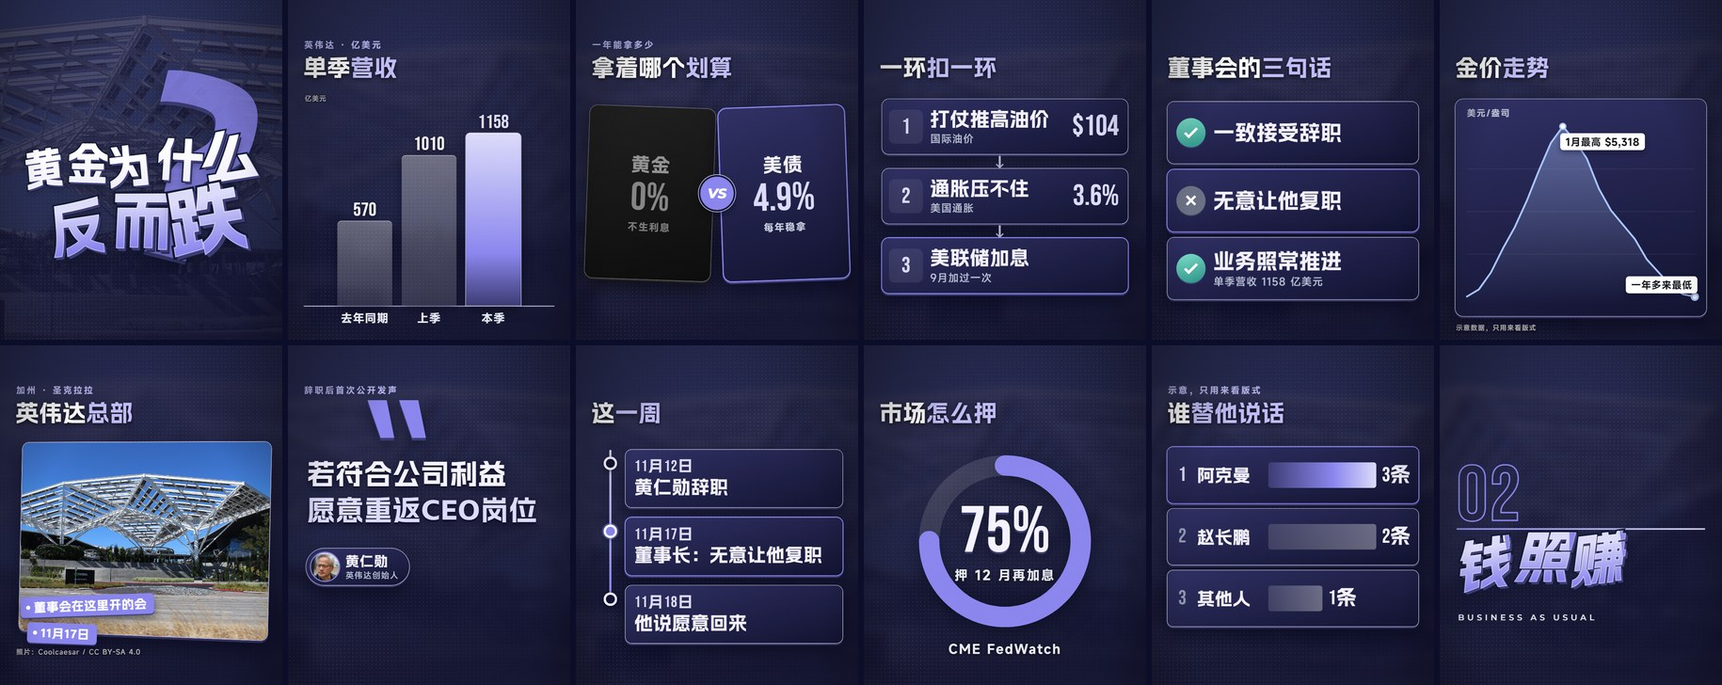
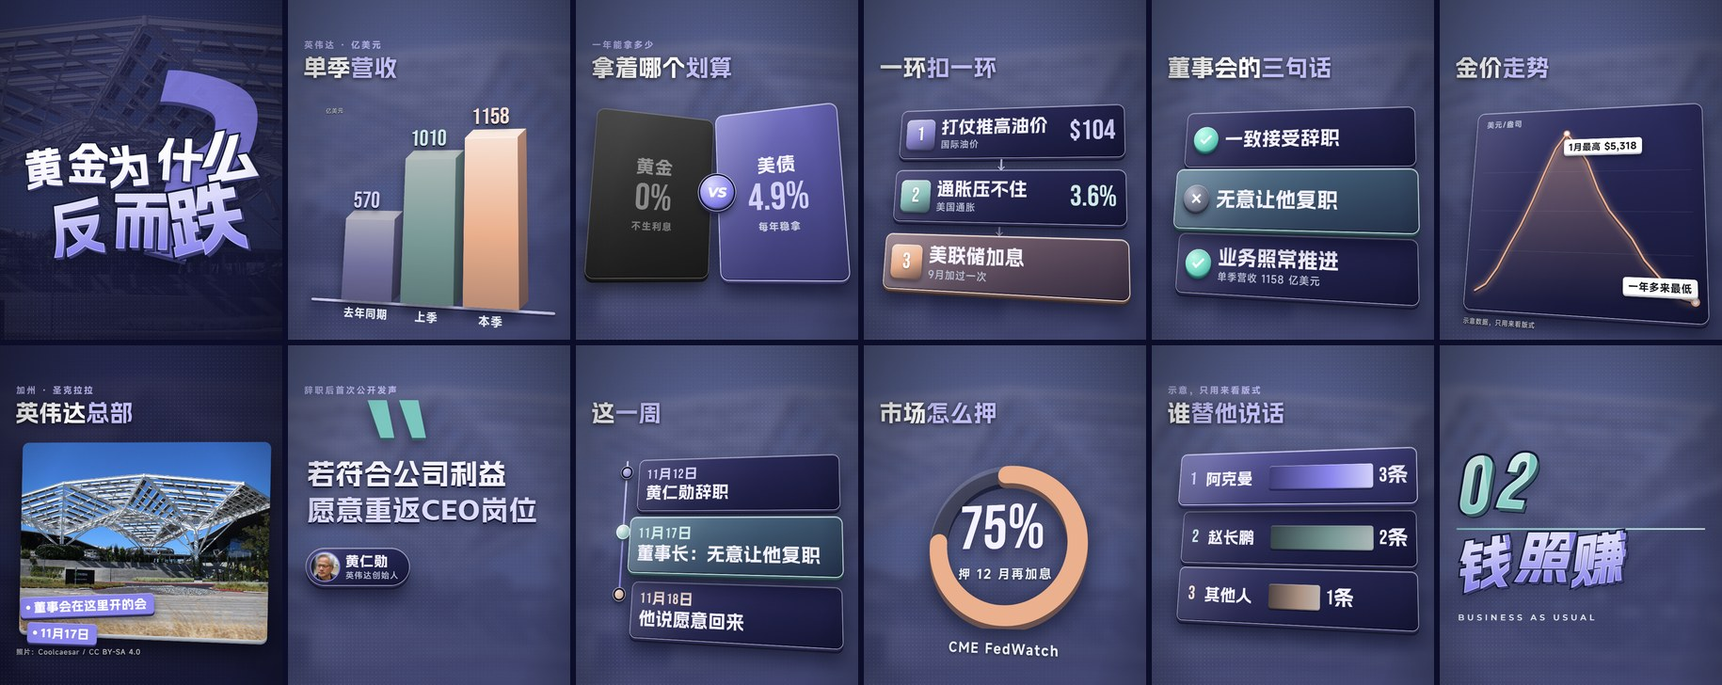
v2.7: vpro components get depth and texture; one main colour plus three muted companions
图形组件放在有透视的斜台面上，卡有两层厚度和高光，柱子是长方体，圆环有厚度；
配色从一个强调色改成一个主色加三个伴色（青绿、杏橙、天蓝，饱和度压低）。

diff --git a/kit/vpro.js b/kit/vpro.js
@@ -5,7 +5,9 @@
 //   5 每样东西只做一个有意思的动作，落定后一个像素不动（不弹、不晃、不飘、镜头不顿）
 // 二十个组件，有她没她都能用：前 8 个是讲故事的（有口播时她是底），后 12 个是算账、比较、引用、分段的图形镜头（有口播时她在角上的圆头像里）。
 // 有口播素材就垫她的实拍，没有（或写 host:false）就垫 bg 那张图。一条片里每个组件最多用一两次，进场别重复。
-// 用法：film.js 里 await KIT_VERT.use(K,{…}) 之后写一句 KIT_VPRO.theme({accent:'#8a86ee'})，颜色取自口播画面；然后镜头表里写 scene:'vp-words' 这些。
+// 用法：film.js 里 await KIT_VERT.use(K,{…}) 之后写一句 KIT_VPRO.theme({accent:'#8a86ee'})，主色取自口播画面；然后镜头表里写 scene:'vp-words' 这些。
+// 颜色：一个主色（卡的底、细边、大字）+ 三个伴色（青绿、杏橙、天蓝，按主色自动配、饱和度压低，theme({palette:[…]}) 可以自己定）。
+//       图形镜头里每样东西轮着用这四个颜色（每项写 c:0–3 可以指定），所以一屏不是一个颜色，但都在一个家族里。
 (()=>{
 const {S,W,ZH,A,plain,fitH,fitU,fitN,hostBox,avatar,roomSrc,HOST}=KIT_VERT;
 const {hashf}=KIT;
@@ -21,11 +23,18 @@ const wipe=k=>`clip-path:inset(-20% ${f1(100*(1-k))}% -20% -5%)`;
 const hex=c=>{const m=/^#([0-9a-f]{6})$/i.exec(c);if(!m)throw Error(`KIT_VPRO.theme：颜色要写成 '#8a86ee' 这样，收到 ${c}`);return [0,2,4].map(i=>parseInt(m[1].slice(i,i+2),16));};
 const mix=(a,b,k)=>'#'+hex(a).map((v,i)=>Math.round(lerp(v,hex(b)[i],k)).toString(16).padStart(2,'0')).join('');
 const TH={};let PUFF={};
+const hsv2hex=(h,sv,v)=>{h=((h%360)+360)%360;const f=n=>{const k=(n+h/60)%6;return Math.round(255*(v-v*sv*Math.max(0,Math.min(k,4-k,1))));};return '#'+[f(5),f(3),f(1)].map(x=>x.toString(16).padStart(2,'0')).join('');};
+const hueOf=c=>{const [r,g,b]=hex(c).map(x=>x/255),mx=Math.max(r,g,b),mn=Math.min(r,g,b),d=mx-mn;if(!d)return 0;return 60*(mx===r?((g-b)/d+6)%6:mx===g?(b-r)/d+2:(r-g)/d+4);};
+const tri=c=>({b:c,hi:mix(c,'#ffffff',.62),lo:mix(c,'#05061c',.56)});
+// 第 i 样东西用第几个颜色：0 主色，1–3 伴色，轮着用
+const KV=i=>{const k=TH.pal[((i%TH.pal.length)+TH.pal.length)%TH.pal.length];return `--k:${k.b};--kh:${k.hi};--kl:${k.lo};`;};
 function theme(o={}){
  const a=o.accent??'#8a86ee';
  Object.assign(TH,{accent:a,hi:o.hi??mix(a,'#ffffff',.7),lo:o.lo??mix(a,'#05061c',.58),card1:o.card1??mix(a,'#0b0d2c',.7),card2:o.card2??mix(a,'#05061c',.9),ink:o.ink??'#f4f2ff',
   num1:o.num1??mix(a,'#ffffff',.18),num2:o.num2??mix(a,'#05061c',.5),num3:o.num3??mix(a,'#05061c',.72),up1:o.up1??'#7fe0cc',up2:o.up2??'#2a8f84',cool:o.cool??'#a9c4ff',bg:o.bg??TH.bg??null});
+ {const h=hueOf(a);TH.pal=(o.palette??[a,hsv2hex(h-68,.38,.78),hsv2hex(h+140,.40,.92),hsv2hex(h-28,.30,.90)]).map(tri);}   // 伴色：青绿、杏橙、天蓝，参考片量到的那几个调子；饱和度压在四成以下，亮度和主色齐，放在一起不抢
  PUFF={white:['#ffffff',mix('#ffffff',a,.12),mix(a,'#05061c',.55)],accent:[TH.hi,a,TH.lo],cool:[mix(TH.cool,'#ffffff',.8),TH.cool,mix(TH.cool,'#05061c',.55)],gray:['#dfe2e7','#8a8f9a','#474b55']};
+ TH.pal.forEach((k,i)=>{PUFF['c'+i]=[k.hi,k.b,k.lo];});
  const [r,g,b]=hex(TH.hi);let st=document.getElementById('vp-theme');if(!st){st=document.createElement('style');st.id='vp-theme';document.head.appendChild(st);}
  st.textContent=`:root{--vp-accent:${a};--vp-hi:${TH.hi};--vp-lo:${TH.lo};--vp-card1:${TH.card1};--vp-card2:${TH.card2};--vp-ink:${TH.ink};--vp-line:rgba(${r},${g},${b},.78);--vp-num1:${TH.num1};--vp-num2:${TH.num2};--vp-num3:${TH.num3};--vp-up1:${TH.up1};--vp-up2:${TH.up2}}.v-root{--v-on:${mix(a,'#ffffff',.45)}}`;
  return TH;}
@@ -218,74 +227,77 @@ S('vp-number',{real:()=>true,minDur:2,
 // ====================================================================================================
 const hasAva=p=>HOST.on&&p.avatar!==false;
 const hd=(p,th)=>(p.brow?`<div class="v-brow" style="left:62px;top:150px;${wipe(oc(th/.3))}">${p.brow}</div>`:'')+(p.title?`<div class="v-h v-shadow" style="left:60px;top:208px;font-size:${fitH(p.title,88,hasAva(p)?720:960)}px;${wipe(oc((th-.1)/.35))}">${p.title}</div>`:'');
-const base=(p,c,t)=>bgHTML(p,c,t,{s:1.14,blur:14,bri:.3});
+const base=(p,c,t)=>bgHTML(p,c,t,{s:1.14,blur:14,bri:.44}).replace('class="vp-tint"','class="vp-tint g"');   // 图形镜头的底：灰蓝、比讲故事的镜头亮一档（参考片数据卡的底是 #5F6A88 一类）
 const tsOf=(c,its,lead=.35,gap=.7)=>its.map((it,i)=>c.at(it.at)??c.t0+lead+i*Math.min(gap,Math.max(.25,(c.d-lead-.5)/Math.max(1,its.length))));
 // 数字从 0 数到位：'$104' '3.6%' '-6.9%' 都认，前后的符号留着
 const cnt=(v,k)=>{const m=/^([^\d]*)([\d.,]+)(.*)$/.exec(String(v));if(!m)return String(v);const n=parseFloat(m[2].replace(/,/g,'')),dec=(m[2].split('.')[1]??'').length;return m[1]+(n*k).toFixed(dec)+m[3];};
 const numOf=v=>{const m=/([\d.,]+)/.exec(String(v));return m?parseFloat(m[1].replace(/,/g,'')):0;};
 const TOP=p=>p.title?350:(p.brow?230:170);
+// 斜台面：图形镜头的内容放在一张有透视的台面上，进场时从更斜的角度摆到位，然后不动。p.flat:true 可以关掉
+const T3=(th,inner,p,o={})=>{if(p.flat)return inner;const k=tail(th,.15),rx=o.rx??10,ry=o.ry??-11;return `<div class="v-abs" style="left:0;top:0;width:${W}px;height:${ZH}px;perspective:1600px;perspective-origin:50% 40%"><div class="v-abs" style="left:0;top:0;width:${W}px;height:${ZH}px;transform-style:preserve-3d;transform-origin:50% 50%;transform:rotateX(${f1(rx+16*(1-k))}deg) rotateY(${f1(ry-24*(1-k))}deg) rotateZ(${o.rz??1.6}deg) scale(${o.s??.95})">${inner}</div></div>`;};
+const Z=n=>`translateZ(${n}px)`;
 
 // ====== 9 vp-bars：几根柱子比大小 ======
 S('vp-bars',{real:()=>false,minDur:1.5,
  says:'几根柱子从底线往上长，数字跟着数上去；最要紧的那根是强调色',use:'几个数比大小：四家公司的投入、三年的营收',avoid:'超过 5 根；数差不多大（看不出高低）',
- need:['items'],help:{items:"[{label:'微软', value:'800', hl:true, at}]，2–5 根；value 可带符号和单位",unit:'左上角的单位小字',title:'标题',brow:'小字',bg:'垫底的图'},
+ need:['items'],help:{items:"[{label:'微软', value:'800', hl:true, at}]，2–5 根；value 可带符号和单位",unit:'左上角的单位小字',flat:'true = 不要斜台面，平着放',title:'标题',brow:'小字',bg:'垫底的图'},
  beats:p=>A(p.items).length,
  draw(p,c){markAva(p);const its=A(p.items),n=its.length,ts=tsOf(c,its),top=TOP(p)+90,by=1170,mh=by-top-70,mx=Math.max(...its.map(i=>numOf(i.value)),1e-9),w=Math.min(210,(900-(n-1)*36)/n),x0=(W-(n*w+(n-1)*36))/2;
-  return t=>{const th=t-c.t0;let h=base(p,c,t)+hd(p,th)+(p.unit?`<div class="v-cap" style="left:64px;top:${TOP(p)+10}px">${p.unit}</div>`:'')+`<div class="vp-base" style="left:60px;top:${by}px;width:${f1(960*oc(th/.4))}px"></div>`;
+  return t=>{const th=t-c.t0;let h=(p.unit?`<div class="v-cap" style="left:64px;top:${TOP(p)+10}px">${p.unit}</div>`:'')+`<div class="vp-base" style="left:60px;top:${by}px;width:${f1(960*oc(th/.4))}px"></div>`;
    its.forEach((it,i)=>{const k=oc((t-ts[i])/.8);if(k<=0)return;const hh=Math.max(14,mh*numOf(it.value)/mx)*k,x=x0+i*(w+36);
-    h+=`<div class="vp-col${it.hl?' hl':''}" style="left:${f1(x)}px;top:${f1(by-hh)}px;width:${f1(w)}px;height:${f1(hh)}px"></div><div class="vp-colv${it.hl?' hl':''}" style="left:${f1(x-40)}px;top:${f1(by-hh-78)}px;width:${f1(w+80)}px">${cnt(it.value,k)}</div><div class="vp-coll" style="left:${f1(x-40)}px;top:${by+18}px;width:${f1(w+80)}px;font-size:${fitU(it.label,44,w+70)}px;opacity:${f3(c01((t-ts[i])*5))}">${it.label}</div>`;});
-   return h+ava(p,t);};}
+    h+=`<div class="vp-col${it.hl?' hl':''}" style="${KV(it.c??i)}left:${f1(x)}px;top:${f1(by-hh)}px;width:${f1(w)}px;height:${f1(hh)}px"><i></i><b></b></div><div class="vp-colv${it.hl?' hl':''}" style="${KV(it.c??i)}left:${f1(x-40)}px;top:${f1(by-hh-116)}px;width:${f1(w+80)}px;transform:${Z(50)}">${cnt(it.value,k)}</div><div class="vp-coll" style="left:${f1(x-40)}px;top:${by+18}px;width:${f1(w+80)}px;font-size:${fitU(it.label,44,w+70)}px;opacity:${f3(c01((t-ts[i])*5))}">${it.label}</div>`;});
+   return base(p,c,t)+hd(p,th)+T3(th,h,p)+ava(p,t);};}
 });
 
 // ====== 10 vp-versus：两边对着看 ======
 S('vp-versus',{real:p=>!!(p.left?.img||p.right?.img),minDur:1.5,
  says:'两张卡从两边滑进来对着放，中间一个 VS；可以在某个时刻让一边赢',use:'"黄金不生利息，美债一年 4.9%"：两样东西对比',avoid:'三样以上（改 vp-bars / vp-rank）',
- need:['left','right'],help:{left:"{name:'黄金', value:'0%', sub:'不生利息', img, at}",right:'同 left',win:"{side:'right', at}：这时赢的一边亮起、另一边变灰",title:'标题',brow:'小字',bg:'垫底的图'},
+ need:['left','right'],help:{left:"{name:'黄金', value:'0%', sub:'不生利息', img, at}",right:'同 left',win:"{side:'right', at}：这时赢的一边亮起、另一边变灰",flat:'true = 不要斜台面，平着放',title:'标题',brow:'小字',bg:'垫底的图'},
  beats:p=>2+(p.win?1:0),
  draw(p,c){markAva(p);const L=p.left,Rr=p.right,tl=c.at(L.at)??c.t0+.3,tr=c.at(Rr.at)??c.t0+1,tw=p.win?c.at(p.win.at)??tr+.8:1e9,top=TOP(p)+60,ch=p.left.img||p.right.img?780:660;
   const card=(o,sd,ta,t)=>{const k=tail(t-ta+.08,.11);if(k<=0)return '';const win=oc((t-tw)/.3),lose=p.win&&p.win.side!==(sd<0?'left':'right'),hit=p.win&&!lose;
-   return `<div class="vp-vs${hit&&win>0?' on':''}" style="left:${f1((sd<0?44:556)+sd*620*(1-k))}px;top:${top}px;height:${ch}px;transform:rotate(${sd*-2}deg);filter:grayscale(${f3(lose?win:0)}) brightness(${f3(1-(lose?.4*win:0))})">${o.img?`<div class="ph"><img src="${o.img}"></div>`:''}<b style="font-size:${fitH(o.name,72,420)}px">${o.name}</b><em style="font-size:${fitU(String(o.value),150,420)}px">${cnt(o.value,oe((t-ta)/.9))}</em><u>${o.sub??''}</u></div>`;};
-  return t=>{const th=t-c.t0,kv=oe((t-tr)/.2);return base(p,c,t)+hd(p,th)+card(L,-1,tl,t)+card(Rr,1,tr,t)+(t>tr-.02?`<div class="vp-vsb" style="top:${top+ch/2-64}px;transform:scale(${f3(1+1.4*(1-kv))});opacity:${f3(c01((t-tr)*8))}">VS</div>`:'')+ava(p,t);};}
+   return `<div class="vp-vs${hit&&win>0?' on':''}" style="${KV(o.c??(sd<0?1:0))}left:${f1((sd<0?44:556)+sd*620*(1-k))}px;top:${top}px;height:${ch}px;transform:rotateY(${sd*-17}deg) rotate(${sd*-2}deg) ${Z(hit&&win>0?70*win:0)};filter:grayscale(${f3(lose?win:0)}) brightness(${f3(1-(lose?.4*win:0))})">${o.img?`<div class="ph"><img src="${o.img}"></div>`:''}<b style="font-size:${fitH(o.name,72,420)}px">${o.name}</b><em style="font-size:${fitU(String(o.value),150,420)}px">${cnt(o.value,oe((t-ta)/.9))}</em><u>${o.sub??''}</u></div>`;};
+  return t=>{const th=t-c.t0,kv=oe((t-tr)/.2);return base(p,c,t)+hd(p,th)+T3(th,card(L,-1,tl,t)+card(Rr,1,tr,t)+(t>tr-.02?`<div class="vp-vsb" style="top:${top+ch/2-64}px;transform:${Z(90)} scale(${f3(1+1.4*(1-kv))});opacity:${f3(c01((t-tr)*8))}">VS</div>`:''),p,{ry:0,rx:8,rz:0})+ava(p,t);};}
 });
 
 // ====== 11 vp-chain：一环扣一环 ======
 S('vp-chain',{real:p=>A(p.items).some(i=>i.img),minDur:2,
  says:'三四张卡从上往下一张接一张滑进来，中间的箭头长出来；最后一张是强调色',use:'因果链："打仗 → 油价涨 → 通胀 → 加息"',avoid:'超过 4 环；每环的字超过 8 个',
- need:['items'],help:{items:"[{title:'打仗推高油价', value:'$104', sub:'国际油价', img, at}]，3–4 环",title:'标题',brow:'小字',bg:'垫底的图'},
+ need:['items'],help:{items:"[{title:'打仗推高油价', value:'$104', sub:'国际油价', img, at}]，3–4 环",flat:'true = 不要斜台面，平着放',title:'标题',brow:'小字',bg:'垫底的图'},
  beats:p=>A(p.items).length,
  draw(p,c){markAva(p);const its=A(p.items),n=its.length,ts=tsOf(c,its),top=TOP(p)+30,gap=56,ch=Math.min(210,(1230-top-(n-1)*gap)/n);
-  return t=>{const th=t-c.t0;let h=base(p,c,t)+hd(p,th);
+  return t=>{const th=t-c.t0;let h='';
    its.forEach((it,i)=>{const k=tail(t-ts[i]+.08,.1);if(k<=0)return;const y=top+i*(ch+gap),last=i===n-1;
     if(i)h+=`<div class="vp-arrow" style="left:520px;top:${f1(y-gap+6)}px;height:${f1((gap-12)*oc((t-ts[i]+.1)/.25))}px"><i></i></div>`;
-    h+=`<div class="vp-link${last?' hl':''}" style="left:${f1(70+(i%2?1:-1)*900*(1-k))}px;top:${f1(y)}px;height:${f1(ch)}px">${it.img?`<span class="ph"><img src="${it.img}"></span>`:`<span class="no">${i+1}</span>`}<div><b style="font-size:${fitH(it.title,74,it.value?480:700)}px">${it.title}</b><u>${it.sub??''}</u></div>${it.value?`<em>${cnt(it.value,oe((t-ts[i])/.8))}</em>`:''}</div>`;});
-   return h+ava(p,t);};}
+    h+=`<div class="vp-link${last?' hl':''}" style="${KV(it.c??i)}left:${f1(70+(i%2?1:-1)*900*(1-k))}px;top:${f1(y)}px;height:${f1(ch)}px;transform:${Z(last?60:i*14)}">${it.img?`<span class="ph"><img src="${it.img}"></span>`:`<span class="no">${i+1}</span>`}<div><b style="font-size:${fitH(it.title,74,it.value?480:700)}px">${it.title}</b><u>${it.sub??''}</u></div>${it.value?`<em>${cnt(it.value,oe((t-ts[i])/.8))}</em>`:''}</div>`;});
+   return base(p,c,t)+hd(p,th)+T3(th,h,p)+ava(p,t);};}
 });
 
 // ====== 12 vp-list：几条要点 ======
 S('vp-list',{real:()=>false,minDur:1.5,
  says:'几条要点一条条翻出来，前面一个圆牌（序号、对勾或叉）',use:'"三个原因""两条出路""该做的和不该做的"',avoid:'超过 4 条；每条超过 12 个字',
- need:['items'],help:{items:"[{text:'利率还在涨', sub:'小字', mark:'ok'|'no'|'1', hl:true, at}]，2–4 条",title:'标题',brow:'小字',bg:'垫底的图'},
+ need:['items'],help:{items:"[{text:'利率还在涨', sub:'小字', mark:'ok'|'no'|'1', hl:true, at}]，2–4 条",flat:'true = 不要斜台面，平着放',title:'标题',brow:'小字',bg:'垫底的图'},
  beats:p=>A(p.items).length,
  draw(p,c){markAva(p);const its=A(p.items),n=its.length,ts=tsOf(c,its),top=TOP(p)+40,rh=Math.min(236,(1220-top)/n-24);
-  return t=>{const th=t-c.t0;let h=base(p,c,t)+hd(p,th);
+  return t=>{const th=t-c.t0;let h='';
    its.forEach((it,i)=>{const k=(t-ts[i]+.04)/.3;if(k<=0)return;const m=it.mark??String(i+1);
-    h+=`<div class="vp-row${it.hl?' hl':''}" style="left:60px;top:${f1(top+i*(rh+24))}px;height:${f1(rh)}px;opacity:${f3(c01(k*4))};transform:perspective(900px) rotateX(${f1(-88*(1-oe(k)))}deg)"><span class="bd ${m==='ok'?'ok':m==='no'?'no':''}">${m==='ok'?'✓':m==='no'?'✕':m}</span><div><b style="font-size:${fitH(it.text,80,760)}px">${it.text}</b>${it.sub?`<u>${it.sub}</u>`:''}</div></div>`;});
-   return h+ava(p,t);};}
+    h+=`<div class="vp-row${it.hl?' hl':''}" style="${KV(it.c??i)}left:60px;top:${f1(top+i*(rh+24))}px;height:${f1(rh)}px;opacity:${f3(c01(k*4))};transform:${Z(it.hl?56:0)} rotateX(${f1(-88*(1-oe(k)))}deg)"><span class="bd ${m==='ok'?'ok':m==='no'?'no':''}">${m==='ok'?'✓':m==='no'?'✕':m}</span><div><b style="font-size:${fitH(it.text,80,760)}px">${it.text}</b>${it.sub?`<u>${it.sub}</u>`:''}</div></div>`;});
+   return base(p,c,t)+hd(p,th)+T3(th,h,p)+ava(p,t);};}
 });
 
 // ====== 13 vp-line：走势线 ======
 S('vp-line',{real:()=>true,minDur:2,
  says:'一条走势线从左画到右，画到哪标到哪；线下面一层淡淡的颜色',use:'"金价一路掉回一年前""股价三个月翻倍"',avoid:'两条以上的线；没有真数据（不许编走势）',
- need:['data'],help:{data:"数字数组 [3200,3260,…]，或一个 json 文件（数字数组，或 [{v:…}] 这类对象数组，取第一个数字字段）",marks:"[{i:103, text:'1月最高 $5,318', at}]：i 是第几个点，-1 是最后一个",drawTo:'画完的时刻（默认 1.6 秒画完）',unit:'单位小字',down:'true = 跌的走势，线和面用冷色',title:'标题',brow:'小字',source:'数据来源小字（要写）',bg:'垫底的图'},
+ need:['data'],help:{data:"数字数组 [3200,3260,…]，或一个 json 文件（数字数组，或 [{v:…}] 这类对象数组，取第一个数字字段）",marks:"[{i:103, text:'1月最高 $5,318', at}]：i 是第几个点，-1 是最后一个",drawTo:'画完的时刻（默认 1.6 秒画完）',unit:'单位小字',down:'true = 跌的走势，线和面用冷色',flat:'true = 不要斜台面，平着放',title:'标题',brow:'小字',source:'数据来源小字（要写）',bg:'垫底的图'},
  beats:p=>1+A(p.marks).length,
  async prep(p){let d=p.data;if(typeof d==='string')d=await (await fetch(d)).json();if(d&&!Array.isArray(d))d=Object.values(d).find(Array.isArray)??[];p._d=d.map(x=>typeof x==='number'?x:Array.isArray(x)?+x[x.length-1]:+Object.values(x).find(v=>typeof v==='number')).filter(x=>!isNaN(x));},
  check(p,c){if(!p.source)c.warn('走势线没写 source：数据从哪来的要写在屏上');},
  draw(p,c){markAva(p);const d=p._d??[],n=d.length,top=TOP(p)+30,cw=960,chh=1210-top,pad=44,mn=Math.min(...d),mx=Math.max(...d),X=i=>pad+(cw-2*pad)*i/Math.max(1,n-1),Y=v=>pad+60+(chh-2*pad-90)*(1-(v-mn)/Math.max(1e-9,mx-mn));
   const pts=d.map((v,i)=>`${f1(X(i))},${f1(Y(v))}`),t1=c.at(p.drawTo)??c.t0+1.9,mk=A(p.marks).map(m=>({...m,i:m.i<0?n+m.i:m.i})),tm=mk.map((m,j)=>c.at(m.at)??lerp(c.t0+.3,t1,m.i/Math.max(1,n-1)));
   return t=>{const th=t-c.t0,k=tail(th,.12),g=c01((t-c.t0-.3)/Math.max(.3,t1-c.t0-.3)),m=Math.max(1,Math.round(g*(n-1)));
-   let h=base(p,c,t)+hd(p,th)+`<div class="vp-chart${p.down?' down':''}" style="left:60px;top:${f1(top+(1-k)*120)}px;width:${cw}px;height:${f1(chh)}px;opacity:${f3(c01(th*8))}">${p.unit?`<u class="un">${p.unit}</u>`:''}<svg width="${cw}" height="${f1(chh)}" viewBox="0 0 ${cw} ${f1(chh)}"><defs><linearGradient id="vpg" x1="0" y1="0" x2="0" y2="1"><stop offset="0" stop-color="currentColor" stop-opacity=".42"/><stop offset="1" stop-color="currentColor" stop-opacity="0"/></linearGradient></defs>${[.25,.5,.75].map(q=>`<line x1="${pad}" x2="${cw-pad}" y1="${f1(pad+60+(chh-2*pad-90)*q)}" y2="${f1(pad+60+(chh-2*pad-90)*q)}" stroke="rgba(255,255,255,.1)" stroke-width="2"/>`).join('')}${g>0&&n>1?`<polygon points="${pts.slice(0,m+1).join(' ')} ${f1(X(m))},${f1(chh-pad)} ${pad},${f1(chh-pad)}" fill="url(#vpg)"/><polyline points="${pts.slice(0,m+1).join(' ')}" fill="none" stroke="currentColor" stroke-width="7" stroke-linejoin="round" stroke-linecap="round"/><circle cx="${f1(X(m))}" cy="${f1(Y(d[m]))}" r="13" fill="#fff" stroke="currentColor" stroke-width="6"/>`:''}</svg>${mk.map((mm,j)=>{const kk=oe((t-tm[j])/.22);if(kk<=0||mm.i>m)return '';const lx=X(mm.i),ly=Y(d[mm.i]);return `<i class="pt" style="left:${f1(lx-9)}px;top:${f1(ly-9)}px"></i><span class="mk" style="${lx>cw/2?`right:${f1(cw-lx-10)}px`:`left:${f1(lx-10)}px`};top:${f1(ly<170?ly+26:ly-78)}px;transform:scale(${f3(kk)})">${mm.text}</span>`;}).join('')}</div>`;
+   let h=`<div class="vp-chart${p.down?' down':''}" style="${KV(p.c??(p.down?2:1))}left:60px;top:${f1(top+(1-k)*120)}px;width:${cw}px;height:${f1(chh)}px;opacity:${f3(c01(th*8))}">${p.unit?`<u class="un">${p.unit}</u>`:''}<svg width="${cw}" height="${f1(chh)}" viewBox="0 0 ${cw} ${f1(chh)}"><defs><linearGradient id="vpg" x1="0" y1="0" x2="0" y2="1"><stop offset="0" stop-color="currentColor" stop-opacity=".42"/><stop offset="1" stop-color="currentColor" stop-opacity="0"/></linearGradient></defs>${[.25,.5,.75].map(q=>`<line x1="${pad}" x2="${cw-pad}" y1="${f1(pad+60+(chh-2*pad-90)*q)}" y2="${f1(pad+60+(chh-2*pad-90)*q)}" stroke="rgba(255,255,255,.1)" stroke-width="2"/>`).join('')}${g>0&&n>1?`<polygon points="${pts.slice(0,m+1).join(' ')} ${f1(X(m))},${f1(chh-pad)} ${pad},${f1(chh-pad)}" fill="url(#vpg)"/><polyline points="${pts.slice(0,m+1).join(' ')}" fill="none" stroke="currentColor" stroke-width="7" stroke-linejoin="round" stroke-linecap="round"/><circle cx="${f1(X(m))}" cy="${f1(Y(d[m]))}" r="13" fill="#fff" stroke="currentColor" stroke-width="6"/>`:''}</svg>${mk.map((mm,j)=>{const kk=oe((t-tm[j])/.22);if(kk<=0||mm.i>m)return '';const lx=X(mm.i),ly=Y(d[mm.i]);return `<i class="pt" style="left:${f1(lx-9)}px;top:${f1(ly-9)}px"></i><span class="mk" style="${lx>cw/2?`right:${f1(cw-lx-10)}px`:`left:${f1(lx-10)}px`};top:${f1(ly<170?ly+26:ly-78)}px;transform:scale(${f3(kk)})">${mm.text}</span>`;}).join('')}</div>`;
    if(p.source)h+=`<div class="v-cap" style="left:62px;top:1238px">${p.source}</div>`;
-   return h+ava(p,t);};}
+   return base(p,c,t)+hd(p,th)+T3(th,h,p,{rx:12,ry:-13})+ava(p,t);};}
 });
 
 // ====== 14 vp-photo：一张图当主角 ======
@@ -307,7 +319,7 @@ S('vp-quote',{real:p=>!!p.img,minDur:1.5,
  need:['lines','name'],help:{lines:"['买得越多','<em>省得越多</em>']，1–3 行，<em> 是重点",name:'谁说的',tag:'身份',img:'头像（可不写）',at:'每行的时刻',brow:'小字',bg:'垫底的图'},
  beats:p=>A(p.lines).length+1,
  draw(p,c){markAva(p);const ls=A(p.lines),n=ls.length,ts=ls.map((_,i)=>c.at(A(p.at)[i])??c.t0+.4+i*.6),fs=Math.min(...ls.map(l=>fitH(l,128,900))),y0=560-n*fs*.6,tn=ts[n-1]+.45;
-  return t=>{const th=t-c.t0,kq=oe(th/.25);let h=base(p,c,t)+(p.brow?`<div class="v-brow" style="left:62px;top:150px;${wipe(oc(th/.3))}">${p.brow}</div>`:'')+`<div class="vp-qm" style="left:56px;top:${f1(y0-250)}px;transform:scale(${f3(1+.9*(1-kq))});opacity:${f3(c01(th*6))}">“</div>`;
+  return t=>{const th=t-c.t0,kq=oe(th/.25);let h=base(p,c,t)+(p.brow?`<div class="v-brow" style="left:62px;top:150px;${wipe(oc(th/.3))}">${p.brow}</div>`:'')+`<div class="vp-qm" style="${KV(p.c??1)}left:56px;top:${f1(y0-250)}px;transform:scale(${f3(1+.9*(1-kq))});opacity:${f3(c01(th*6))}">“</div>`;
    ls.forEach((l,i)=>{const k=oc((t-ts[i])/.4);if(k>0)h+=`<div class="vp-ql" style="left:74px;top:${f1(y0+i*fs*1.3)}px;font-size:${fs}px;${wipe(k)}">${l}</div>`;});
    const kn=tail(t-tn,.1);if(kn>0)h+=`<div class="vp-plate" style="left:${f1(70-(1-kn)*700)}px;top:${f1(y0+n*fs*1.3+70)}px">${p.img?`<span><img src="${p.img}"></span>`:''}<div><b>${p.name}</b><u>${p.tag??''}</u></div></div>`;
    return h+ava(p,t);};}
@@ -316,38 +328,38 @@ S('vp-quote',{real:p=>!!p.img,minDur:1.5,
 // ====== 16 vp-timeline：时间线 ======
 S('vp-timeline',{real:()=>false,minDur:2,
  says:'一条竖线往下长，走到哪个日子，圆点亮起、那天的事从右边滑进来',use:'"9 月加了一次息，12 月可能再加"：几个有日期的节点',avoid:'超过 4 个节点；没有先后顺序的事（改 vp-list）',
- need:['items'],help:{items:"[{date:'11月12日', text:'黄仁勋辞职', sub, hl:true, at}]，2–4 个",title:'标题',brow:'小字',bg:'垫底的图'},
+ need:['items'],help:{items:"[{date:'11月12日', text:'黄仁勋辞职', sub, hl:true, at}]，2–4 个",flat:'true = 不要斜台面，平着放',title:'标题',brow:'小字',bg:'垫底的图'},
  beats:p=>A(p.items).length,
  draw(p,c){markAva(p);const its=A(p.items),n=its.length,ts=tsOf(c,its),top=TOP(p)+50,sp=Math.min(260,(1210-top)/n);
-  return t=>{const th=t-c.t0;let h=base(p,c,t)+hd(p,th);const reach=its.reduce((a,_,i)=>Math.max(a,(i+oc((t-ts[i]+.3)/.4))*sp),0);
+  return t=>{const th=t-c.t0;let h='';const reach=its.reduce((a,_,i)=>Math.max(a,(i+oc((t-ts[i]+.3)/.4))*sp),0);
    h+=`<div class="vp-tl" style="left:128px;top:${top}px;height:${f1(Math.min(reach,(n-1)*sp+60))}px"></div>`;
    its.forEach((it,i)=>{const k=tail(t-ts[i]+.05,.1);if(k<=0)return;const y=top+i*sp;
-    h+=`<i class="vp-dot${it.hl?' hl':''}" style="left:106px;top:${f1(y+26)}px;transform:scale(${f3(oe((t-ts[i]+.05)/.2))})"></i><div class="vp-tli${it.hl?' hl':''}" style="left:${f1(190+(1-k)*900)}px;top:${f1(y)}px;height:${f1(sp-40)}px"><u>${it.date}</u><b style="font-size:${fitH(it.text,70,750)}px">${it.text}</b>${it.sub?`<s>${it.sub}</s>`:''}</div>`;});
-   return h+ava(p,t);};}
+    h+=`<i class="vp-dot${it.hl?' hl':''}" style="${KV(it.c??i)}left:106px;top:${f1(y+26)}px;transform:scale(${f3(oe((t-ts[i]+.05)/.2))})"></i><div class="vp-tli${it.hl?' hl':''}" style="${KV(it.c??i)}left:${f1(190+(1-k)*900)}px;top:${f1(y)}px;height:${f1(sp-40)}px;transform:${Z(it.hl?56:0)}"><u>${it.date}</u><b style="font-size:${fitH(it.text,70,750)}px">${it.text}</b>${it.sub?`<s>${it.sub}</s>`:''}</div>`;});
+   return base(p,c,t)+hd(p,th)+T3(th,h,p)+ava(p,t);};}
 });
 
 // ====== 17 vp-share：占比（一个圆环） ======
 S('vp-share',{real:()=>false,minDur:1.5,
  says:'一个粗圆环画到那个百分比停住，中间的数跟着数上去',use:'"市场押 75% 会加息""四家占了全行业六成"',avoid:'要比三样以上的占比（改 vp-bars / vp-rank）',
- need:['value'],help:{value:"'75%'",label:'圆环中间数字下面的字',note:'圆环下面一行说明',at:'开始画的时刻',title:'标题',brow:'小字',bg:'垫底的图'},
+ need:['value'],help:{value:"'75%'",label:'圆环中间数字下面的字',note:'圆环下面一行说明',at:'开始画的时刻',flat:'true = 不要斜台面，平着放',title:'标题',brow:'小字',bg:'垫底的图'},
  beats:()=>1,
  draw(p,c){markAva(p);const ta=c.at(p.at)??c.t0+.35,v=Math.min(100,numOf(p.value)),r=290,C=2*Math.PI*r,cy=TOP(p)+60+r+50;
   return t=>{const th=t-c.t0,k=oc((t-ta)/1.1),kk=tail(th,.12);
-   let h=base(p,c,t)+hd(p,th)+`<svg class="vp-ring" style="left:${540-r-50}px;top:${f1(cy-r-50+(1-kk)*80)}px;opacity:${f3(c01(th*7))}" width="${2*r+100}" height="${2*r+100}" viewBox="0 0 ${2*r+100} ${2*r+100}"><circle cx="${r+50}" cy="${r+50}" r="${r}" fill="none" stroke="rgba(255,255,255,.12)" stroke-width="78"/><circle cx="${r+50}" cy="${r+50}" r="${r}" fill="none" stroke="currentColor" stroke-width="78" stroke-linecap="round" stroke-dasharray="${f1(C*v/100*k)} ${f1(C)}" transform="rotate(-90 ${r+50} ${r+50})"/></svg><div class="vp-ringn" style="top:${f1(cy-160)}px">${cnt(p.value,k)}</div>${p.label?`<div class="vp-ringl" style="top:${f1(cy+96)}px;font-size:${fitU(p.label,50,440)}px">${p.label}</div>`:''}`;
+   let h=`<svg class="vp-ring" style="${KV(p.c??2)}left:${540-r-50}px;top:${f1(cy-r-50+(1-kk)*80)}px;opacity:${f3(c01(th*7))}" width="${2*r+100}" height="${2*r+100}" viewBox="0 0 ${2*r+100} ${2*r+100}"><circle cx="${r+50}" cy="${r+72}" r="${r}" fill="none" stroke="rgba(4,5,24,.55)" stroke-width="78"/><circle cx="${r+50}" cy="${r+50}" r="${r}" fill="none" stroke="rgba(255,255,255,.14)" stroke-width="78"/><circle class="th" cx="${r+50}" cy="${r+72}" r="${r}" fill="none" stroke-width="78" stroke-linecap="round" stroke-dasharray="${f1(C*v/100*k)} ${f1(C)}" transform="rotate(-90 ${r+50} ${r+72})"/><circle cx="${r+50}" cy="${r+50}" r="${r}" fill="none" stroke="currentColor" stroke-width="78" stroke-linecap="round" stroke-dasharray="${f1(C*v/100*k)} ${f1(C)}" transform="rotate(-90 ${r+50} ${r+50})"/></svg><div class="vp-ringn" style="top:${f1(cy-160)}px;transform:${Z(70)}">${cnt(p.value,k)}</div>${p.label?`<div class="vp-ringl" style="top:${f1(cy+96)}px;font-size:${fitU(p.label,50,440)}px">${p.label}</div>`:''}`;
    if(p.note){const kn=oc((t-ta-.9)/.4);if(kn>0)h+=`<div class="vp-ringl" style="top:${f1(cy+r+90)}px;font-size:48px;${wipe(kn)}">${p.note}</div>`;}
-   return h+ava(p,t);};}
+   return base(p,c,t)+hd(p,th)+T3(th,h,p,{rx:16,ry:-14})+ava(p,t);};}
 });
 
 // ====== 18 vp-rank：排行 ======
 S('vp-rank',{real:()=>false,minDur:1.5,
  says:'几行横条一行行出来，条的长短就是大小，数字跟在条尾；最要紧的那行是强调色',use:'"亏损榜第一""四家里谁花得最多"：有名次的比较',avoid:'超过 5 行',
- need:['items'],help:{items:"[{name:'微软', value:'800亿', hl:true, at}]，3–5 行，照名次排好",title:'标题',brow:'小字',bg:'垫底的图'},
+ need:['items'],help:{items:"[{name:'微软', value:'800亿', hl:true, at}]，3–5 行，照名次排好",flat:'true = 不要斜台面，平着放',title:'标题',brow:'小字',bg:'垫底的图'},
  beats:p=>A(p.items).length,
  draw(p,c){markAva(p);const its=A(p.items),n=its.length,ts=tsOf(c,its,.35,.5),top=TOP(p)+40,rh=Math.min(214,(1220-top)/n-22),mx=Math.max(...its.map(i=>numOf(i.value)),1e-9);
-  return t=>{const th=t-c.t0;let h=base(p,c,t)+hd(p,th);
+  return t=>{const th=t-c.t0;let h='';
    its.forEach((it,i)=>{const k=tail(t-ts[i]+.05,.1);if(k<=0)return;const g=oc((t-ts[i])/.8),bw=Math.max(30,620*numOf(it.value)/mx)*g;
-    h+=`<div class="vp-rk${it.hl?' hl':''}" style="left:${f1(60-(1-k)*900)}px;top:${f1(top+i*(rh+22))}px;height:${f1(rh)}px"><span>${i+1}</span><b style="font-size:${fitH(it.name,66,250)}px">${it.name}</b><i style="width:${f1(bw)}px"></i><em>${cnt(it.value,g)}</em></div>`;});
-   return h+ava(p,t);};}
+    h+=`<div class="vp-rk${it.hl?' hl':''}" style="${KV(it.c??i)}left:${f1(60-(1-k)*900)}px;top:${f1(top+i*(rh+22))}px;height:${f1(rh)}px;transform:${Z(it.hl?56:0)}"><span>${i+1}</span><b style="font-size:${fitH(it.name,66,250)}px">${it.name}</b><i style="width:${f1(bw)}px"></i><em>${cnt(it.value,g)}</em></div>`;});
+   return base(p,c,t)+hd(p,th)+T3(th,h,p)+ava(p,t);};}
 });
 
 // ====== 19 vp-chapter：分段的小标题 ======
@@ -357,7 +369,7 @@ S('vp-chapter',{real:()=>false,minDur:.8,
  beats:()=>1,
  draw(p,c){const fs=fitH(p.title,210,900);
   return t=>{const th=t-c.t0,k=tail(th,.11),kl=oc(th/.45);
-   return base(p,c,t)+(p.no?`<div class="vp-chno" style="left:${f1(64-(1-k)*500)}px;top:430px">${p.no}</div>`:'')+`<div class="vp-chl" style="left:64px;top:${p.no?700:560}px;width:${f1(952*kl)}px"></div><div class="vp-word vp-it" style="left:${f1(60+(1-k)*1100)}px;top:${p.no?740:600}px;width:auto;font-size:${fs}px;text-align:left;transform:rotate(-4deg);transform-origin:0 60%">${pword(p.title,'accent',null,false)}</div>${p.en?`<div class="v-en" style="left:70px;top:${(p.no?740:600)+fs*1.2+30}px;font-size:32px;${wipe(oc((th-.35)/.4))}">${p.en}</div>`:''}`;};}
+   return base(p,c,t)+(p.no?`<div class="vp-word vp-it vp-chno" style="left:${f1(64-(1-k)*500)}px;top:400px;width:auto">${pword(p.no,'c1',null,false)}</div>`:'')+`<div class="vp-chl" style="${KV(1)}left:64px;top:${p.no?700:560}px;width:${f1(952*kl)}px"></div><div class="vp-word vp-it" style="left:${f1(60+(1-k)*1100)}px;top:${p.no?740:600}px;width:auto;font-size:${fs}px;text-align:left;transform:rotate(-4deg);transform-origin:0 60%">${pword(p.title,'accent',null,false)}</div>${p.en?`<div class="v-en" style="left:70px;top:${(p.no?740:600)+fs*1.2+30}px;font-size:32px;${wipe(oc((th-.35)/.4))}">${p.en}</div>`:''}`;};}
 });
 
 // ====== 20 vp-ask：把问题抛给观众 ======

diff --git a/kit/vpro.css b/kit/vpro.css
@@ -172,3 +172,70 @@
 .vp-chno{position:absolute;font:400 300px/1 Num,'Bebas Neue',sans-serif;color:transparent;-webkit-text-stroke:5px var(--vp-accent);letter-spacing:6px}
 .vp-chl{position:absolute;height:6px;border-radius:3px;background:linear-gradient(90deg,var(--vp-accent),var(--vp-hi))}
 .vp-askq{position:absolute;font:400 1000px/1 Shu,sans-serif;color:var(--vp-accent);transform-origin:40% 55%;text-shadow:0 14px 0 var(--vp-lo),0 30px 60px rgba(4,5,24,.5)}
+
+/* ===== 立体感和质感（v2.7）：卡有两层厚度、顶边高光、斜向反光；柱子是长方体；圆牌、圆点是鼓的；圆环有厚度 ===== */
+.vp-qc,.vp-stamp,.vp-note,.vp-say,.vp-bar,.vp-read,.vp-vs,.vp-link,.vp-row,.vp-chart,.vp-plate,.vp-tli,.vp-rk{
+ background:linear-gradient(118deg,rgba(255,255,255,.17) 0%,rgba(255,255,255,.03) 34%,rgba(255,255,255,0) 60%),linear-gradient(165deg,color-mix(in srgb,var(--vp-card1) 98%,transparent),color-mix(in srgb,var(--vp-card2) 98%,transparent));
+ box-shadow:inset 0 2.5px 0 rgba(255,255,255,.34),inset 0 -4px 0 rgba(0,0,10,.4),inset 0 0 0 1px rgba(255,255,255,.07),0 0 0 2.5px var(--vp-line),0 8px 0 2px color-mix(in srgb,var(--vp-lo) 72%,#000),0 15px 0 2px color-mix(in srgb,var(--vp-lo) 38%,#000),0 46px 70px rgba(4,5,24,.62)}
+.vp-vs.on,.vp-link.hl,.vp-row.hl,.vp-tli.hl,.vp-rk.hl{
+ background:linear-gradient(118deg,rgba(255,255,255,.26) 0%,rgba(255,255,255,.04) 36%,rgba(255,255,255,0) 60%),linear-gradient(165deg,color-mix(in srgb,var(--vp-accent) 46%,var(--vp-card1)),color-mix(in srgb,var(--vp-accent) 16%,var(--vp-card2)));
+ box-shadow:inset 0 2.5px 0 rgba(255,255,255,.5),inset 0 -4px 0 rgba(0,0,10,.4),0 0 0 3.5px var(--vp-hi),0 8px 0 3px var(--vp-lo),0 15px 0 3px color-mix(in srgb,var(--vp-lo) 55%,#000),0 50px 76px rgba(4,5,24,.66)}
+.vp-win,.vp-pp,.vp-nc{box-shadow:inset 0 2px 0 rgba(255,255,255,.5),0 6px 0 #c9cdd3,0 12px 0 #a4a9b3,0 17px 0 #7e8490,0 50px 90px rgba(0,0,0,.62)}
+/* 柱子：长方体（正面 + 顶面 + 右侧面） */
+.vp-col{border-radius:0;background:linear-gradient(180deg,#c9cee0,#7c839c 60%,#565c74);box-shadow:inset 0 3px 0 rgba(255,255,255,.4),0 30px 40px rgba(4,5,24,.5)}
+.vp-col i{position:absolute;left:0;top:-34px;width:100%;height:34px;display:block;background:#e9ecf6;transform-origin:0 100%;transform:skewX(-45deg)}
+.vp-col b{position:absolute;left:100%;top:0;width:34px;height:100%;display:block;background:linear-gradient(180deg,#6d7389,#3b4055);transform-origin:0 0;transform:skewY(-45deg)}
+.vp-col.hl{background:linear-gradient(180deg,var(--vp-hi),var(--vp-accent) 62%,color-mix(in srgb,var(--vp-accent) 60%,var(--vp-lo)));box-shadow:inset 0 3px 0 rgba(255,255,255,.65),0 30px 40px rgba(4,5,24,.5)}
+.vp-col.hl i{background:#fff}
+.vp-col.hl b{background:linear-gradient(180deg,color-mix(in srgb,var(--vp-accent) 70%,var(--vp-lo)),var(--vp-lo))}
+.vp-colv{font-size:92px;text-shadow:0 5px 0 rgba(10,12,40,.9),0 14px 24px rgba(0,0,0,.6)}
+.vp-base{height:10px;border-radius:5px;background:linear-gradient(180deg,var(--vp-hi),var(--vp-line));box-shadow:0 6px 0 color-mix(in srgb,var(--vp-lo) 70%,#000),0 20px 30px rgba(4,5,24,.5)}
+/* 鼓的圆牌、圆点、VS */
+.vp-row .bd,.vp-vsb{background:radial-gradient(circle at 32% 26%,var(--vp-hi),var(--vp-accent) 58%,var(--vp-lo));box-shadow:inset 0 3px 0 rgba(255,255,255,.55),inset 0 -5px 0 rgba(0,0,20,.3),0 7px 0 var(--vp-lo),0 16px 22px rgba(4,5,24,.5)}
+.vp-row .bd.ok{background:radial-gradient(circle at 32% 26%,#c9fff1,var(--vp-up1) 50%,var(--vp-up2));box-shadow:inset 0 3px 0 rgba(255,255,255,.6),inset 0 -5px 0 rgba(0,20,20,.3),0 7px 0 #17635b,0 16px 22px rgba(4,5,24,.5)}
+.vp-row .bd.no{background:radial-gradient(circle at 32% 26%,#b9bfd0,#6b7184 55%,#3c4152);box-shadow:inset 0 3px 0 rgba(255,255,255,.4),inset 0 -5px 0 rgba(0,0,20,.3),0 7px 0 #2a2e3c,0 16px 22px rgba(4,5,24,.5)}
+.vp-vsb{box-shadow:inset 0 3px 0 rgba(255,255,255,.55),inset 0 -5px 0 rgba(0,0,20,.3),0 0 0 6px var(--vp-card2),0 0 0 9px var(--vp-line),0 9px 0 9px color-mix(in srgb,var(--vp-lo) 70%,#000),0 26px 34px rgba(4,5,24,.6)}
+.vp-dot{background:radial-gradient(circle at 34% 28%,#fff,#cfd3e6 55%,#7d84a0);box-shadow:inset 0 0 0 7px var(--vp-card2),0 0 0 3px var(--vp-line),0 6px 0 3px color-mix(in srgb,var(--vp-lo) 70%,#000),0 14px 18px rgba(4,5,24,.5)}
+.vp-dot.hl{background:radial-gradient(circle at 34% 28%,#fff,var(--vp-hi) 40%,var(--vp-accent));box-shadow:0 0 0 5px #fff,0 6px 0 5px var(--vp-lo),0 0 30px color-mix(in srgb,var(--vp-accent) 70%,transparent),0 14px 18px rgba(4,5,24,.5)}
+.vp-tl{box-shadow:0 5px 0 color-mix(in srgb,var(--vp-lo) 70%,#000)}
+/* 排行的条、因果链的箭头、走势线 */
+.vp-rk i{box-shadow:inset 0 3px 0 rgba(255,255,255,.4),inset 0 -4px 0 rgba(0,0,20,.3),0 5px 0 rgba(0,0,20,.45)}
+.vp-arrow,.vp-arrow i{filter:drop-shadow(0 4px 0 rgba(0,0,20,.5))}
+.vp-chart svg polyline{filter:drop-shadow(0 7px 0 rgba(0,0,20,.45)) drop-shadow(0 0 14px currentColor)}
+.vp-chart .mk{box-shadow:inset 0 -3px 0 rgba(0,0,20,.14),0 5px 0 #b9bec7,0 14px 22px rgba(4,5,24,.5)}
+.vp-ring .th{stroke:var(--vp-lo)}
+.vp-ring{filter:drop-shadow(0 30px 40px rgba(4,5,24,.55))}
+.vp-chno{color:inherit;-webkit-text-stroke:0;font:italic 400 300px/1 Num,'Bebas Neue',sans-serif;letter-spacing:6px}
+.vp-tag{box-shadow:inset 0 2.5px 0 rgba(255,255,255,.45),0 5px 0 var(--vp-lo),0 9px 0 color-mix(in srgb,var(--vp-lo) 55%,#000),0 20px 34px rgba(4,5,24,.5)}
+
+/* ===== 一个主色 + 三个伴色（v2.7）：每样东西用自己的 --k（本色）、--kh（亮面）、--kl（暗面） ===== */
+.vp-col,.vp-col.hl{background:linear-gradient(180deg,var(--kh),var(--k) 58%,color-mix(in srgb,var(--k) 62%,var(--kl)))}
+.vp-col i,.vp-col.hl i{background:color-mix(in srgb,var(--kh) 70%,#fff)}
+.vp-col b,.vp-col.hl b{background:linear-gradient(180deg,color-mix(in srgb,var(--k) 55%,var(--kl)),var(--kl))}
+.vp-col:not(.hl){filter:saturate(.7) brightness(.82)}
+.vp-colv,.vp-colv.hl{color:var(--kh)}
+.vp-vs{background:linear-gradient(118deg,rgba(255,255,255,.2) 0%,rgba(255,255,255,.03) 36%,rgba(255,255,255,0) 60%),linear-gradient(165deg,color-mix(in srgb,var(--k) 42%,var(--vp-card1)),color-mix(in srgb,var(--k) 12%,var(--vp-card2)))}
+.vp-vs em{color:var(--kh)}
+.vp-vs.on{background:linear-gradient(118deg,rgba(255,255,255,.3) 0%,rgba(255,255,255,.05) 36%,rgba(255,255,255,0) 60%),linear-gradient(165deg,color-mix(in srgb,var(--k) 70%,var(--vp-card1)),color-mix(in srgb,var(--k) 30%,var(--vp-card2)));box-shadow:inset 0 2.5px 0 rgba(255,255,255,.5),inset 0 -4px 0 rgba(0,0,10,.4),0 0 0 3.5px var(--kh),0 8px 0 3px var(--kl),0 15px 0 3px color-mix(in srgb,var(--kl) 55%,#000),0 50px 76px rgba(4,5,24,.66)}
+.vp-link .ph,.vp-link .no{background:linear-gradient(160deg,var(--kh),var(--k) 55%,var(--kl));color:#fff;box-shadow:inset 0 3px 0 rgba(255,255,255,.5),0 6px 0 var(--kl),0 12px 18px rgba(4,5,24,.45);text-shadow:0 3px 6px rgba(0,0,0,.35)}
+.vp-link em{color:var(--kh)}
+.vp-link.hl,.vp-row.hl,.vp-tli.hl,.vp-rk.hl{background:linear-gradient(118deg,rgba(255,255,255,.26) 0%,rgba(255,255,255,.04) 36%,rgba(255,255,255,0) 60%),linear-gradient(165deg,color-mix(in srgb,var(--k) 46%,var(--vp-card1)),color-mix(in srgb,var(--k) 16%,var(--vp-card2)));box-shadow:inset 0 2.5px 0 rgba(255,255,255,.5),inset 0 -4px 0 rgba(0,0,10,.4),0 0 0 3.5px var(--kh),0 8px 0 3px var(--kl),0 15px 0 3px color-mix(in srgb,var(--kl) 55%,#000),0 50px 76px rgba(4,5,24,.66)}
+.vp-row .bd{background:radial-gradient(circle at 32% 26%,var(--kh),var(--k) 58%,var(--kl));box-shadow:inset 0 3px 0 rgba(255,255,255,.55),inset 0 -5px 0 rgba(0,0,20,.3),0 7px 0 var(--kl),0 16px 22px rgba(4,5,24,.5)}
+.vp-chart,.vp-chart.down{color:var(--k)}
+.vp-dot.hl{background:radial-gradient(circle at 34% 28%,#fff,var(--kh) 40%,var(--k));box-shadow:0 0 0 5px #fff,0 6px 0 5px var(--kl),0 0 30px color-mix(in srgb,var(--k) 70%,transparent),0 14px 18px rgba(4,5,24,.5)}
+.vp-dot:not(.hl){background:radial-gradient(circle at 34% 28%,var(--kh),var(--k) 60%,var(--kl))}
+.vp-tli u{color:var(--kh)}
+.vp-ring{color:var(--k)}
+.vp-ring .th{stroke:var(--kl)}
+.vp-rk i,.vp-rk.hl i{background:linear-gradient(90deg,var(--kl),var(--k) 60%,var(--kh))}
+.vp-rk:not(.hl) i{filter:saturate(.7) brightness(.85)}
+.vp-rk span,.vp-rk.hl span{color:var(--kh)}
+.vp-qm{color:var(--k);text-shadow:0 10px 0 var(--kl),0 24px 50px rgba(4,5,24,.5)}
+.vp-chl{background:linear-gradient(90deg,var(--k),var(--kh))}
+
+/* 图形镜头的底：灰蓝，亮一档 */
+.vp-tint.g{background:linear-gradient(165deg,color-mix(in srgb,color-mix(in srgb,var(--vp-accent) 30%,#6f7aa0) 58%,transparent),color-mix(in srgb,color-mix(in srgb,var(--vp-accent) 22%,#2a3252) 84%,transparent) 82%)}
+
+/* 克制：没被强调的那几样再灰一档，一屏只有一样是全色 */
+.vp-col:not(.hl),.vp-rk:not(.hl) i{filter:saturate(.55) brightness(.8)}
+.vp-link:not(.hl) .no,.vp-link:not(.hl) .ph,.vp-row:not(.hl) .bd:not(.ok):not(.no),.vp-dot:not(.hl){filter:saturate(.7)}

diff --git a/CHANGELOG.md b/CHANGELOG.md
@@ -1,5 +1,6 @@
 # 更新记录
 
+- v2.7（2026-11-20）：vpro 的图形组件加立体感和质感。内容放在一张有透视的斜台面上（进场时摆正，`flat:true` 关掉）；所有卡有两层厚度、顶边高光、斜向反光；柱子是长方体（正面、顶面、侧面）；圆牌、圆点、VS 是鼓的；圆环有厚度；强调的那一项浮起来一层。配色从"一个强调色"改成"一个主色加三个伴色"（青绿、杏橙、天蓝，照参考片的调子、饱和度压低，按主色自动配，`theme({palette})` 可自己定；没被强调的再灰一档），图形镜头里每样东西轮着用，每项写 `c:0–3` 可指定。样张 `examples/vpro-gallery/gallery12.jpg` 重出。
 - v2.6（2026-11-20）：竖屏版加精装组件 vpro。`kit/vpro.js` + `kit/vpro.css`：二十个 `vp-` 组件（讲故事的九个：关键词、提问、新闻摞、当事人抠像加引语、转折、原文纸、最重一镜、表态徽章、收尾大数；图形镜头十一个：柱子、对比、因果链、要点、走势线、图窗、引语、时间线、占比、排行、分段），四种会动的道具（`props`：obj / pour / hammer / bills），`KIT_VPRO.theme({accent})` 一个强调色管全片，有口播垫她、没口播垫图，同一份镜头表两种都能出；落定后不动。新脚本 `cut_img.py`（抠图）、`gen_prop.sh`（生图道具）、`sheet.py`（联系表）。`--check` 认 vpro 组件里的她。样片 `examples/nvda-vertical/`（《英伟达拒绝老黄回归》第九版，带同一条片的无人版镜头表）。`temp_voice.py` 认 `WHISPER_MODEL`（本机模型文件夹）。有真人口播和没有人出镜两种模式同一份镜头表（`KIT_VPRO.theme({bg})` 给无人镜头默认的底）；`pick_accent.py` 从画面里挑强调色；`--check` 加全片提醒（同一组件连用或用太多、没有道具、无人镜头没有底、相邻口播镜景别太近）；换题目验证过（`examples/gold-rates-vertical/film_vpro.js`）。开工第一步加"并排对照"。
 - v2.5（2026-11-14）：竖屏版加导演层。`kit/VERTICAL.md` 开头加"先当导演，再填表"（一句话、最重的一镜、轻重三档、呼吸、哪几处要图）；任何一镜可写 `hero:true`，进场多一下白闪和冲镜，全片只能一个；`--check` 对竖屏片多查五项（没标 / 多标最重的一镜、她露脸三成到六成、证据连着超过 3 镜、连着两镜景别一样、因果链和整屏标题没图）；`v-host-words` 中文词逐字错开大小和角度；`v-host-bubbles` 加 `mark` 大符号。
 - v2.4（2026-11-14）：竖屏版照参考片重做质感。`dark` 皮肤从深蓝卡压深蓝底改成黑底图标底纹（`pattern` 七种）+ 白纸卡（带透视和重投影）+ 立体厚字（`v-host-num`、`v-host-words`、`v-title`）；`v-chain` 改成白板，每环可带白底插画 `img`；`v-title` 加 `en` 英文小字和 `pic` 通栏图窗；`v-doc` 截图斜放、上下虚、荧光笔加重；`v-host-cards` 改半透明卡 + 骑边标签；有口播时卡片类场景右上角自动带圆头像；`host.bright` 提亮口播；接缝改成细线上骑栏目牌；字幕改细黑边。`kit/VERTICAL.md` 加"质感靠图"一节。测试片 v2 和参考并排打分见 `works/2026-11-13_打仗黄金反而跌_竖屏/compare/v2.html`。

diff --git a/kit/VERTICAL.md b/kit/VERTICAL.md
@@ -54,7 +54,7 @@
 | `vp-rank` | 有名次的比较：横条排行 | `items` | `hl` |
 | `vp-chapter` | 分段的小标题（长片用） | `title` | `no`、`en` |
 
-前 8 个加 `vp-ask` 是"讲故事"的：有口播时她是底。其余 11 个是"图形镜头"：有口播时她在右上角的圆头像里。样张：`examples/vpro-gallery/`。
+前 8 个加 `vp-ask` 是"讲故事"的：有口播时她是底。其余 11 个是"图形镜头"：有口播时她在右上角的圆头像里。图形镜头的内容放在一张有透视的斜台面上，卡有厚度、柱子是长方体、强调的那一项浮起来一层（某一镜想平着放写 `flat:true`）。样张：`examples/vpro-gallery/`。
 
 **道具**：任何组件都能写 `props:[{kind, img, at, …}]`，一镜最多一样，演口播里的一个词。
 
@@ -73,7 +73,7 @@
 |---|---|---|
 | 硬 | 屏上的原话、数字、人名都要核过出处 | 截图和引语是证据 |
 | 硬 | 参数名、`props` 的 `kind` 写错会报错，不会悄悄丢掉 | 看不了图的模型发现不了画面少了东西 |
-| 默认 | 颜色一套：强调色 + 白 + 深色卡；自己做的卡只有一种（深色玻璃卡加浅色细边），白纸只留给真截图 | 混几种风格（漫画描边、警戒条、金字棕边、荧光色）会互相打架 |
+| 默认 | 颜色一个家族：一个主色（取自口播画面，管卡的底、细边、大字）加三个伴色（按主色自动配的青绿、杏橙、天蓝，饱和度压得低；一屏只有被强调的那一样是全色，其余灰一档），图形镜头里每样东西轮着用；自己做的卡只有一种（深色玻璃卡加浅色细边），白纸只留给真截图 | 参考片每条有一个主色，但柱子、徽章、表格行各有各的颜色，不是一屏一个色；混进别的风格（漫画描边、警戒条、金字棕边、荧光色）才会打架 |
 | 默认 | 口播画面保持亮，不压黑渐变；东西做大、敢出框 | 参考片的口播是亮的，字直接压在亮画面上 |
 | 默认 | 每个组件一条片用一两次，相邻两镜进场不重复 | 同一种砸法连着用，看着像套模板 |
 | 默认 | 落定后不动：不弹、不晃、不飘、镜头不顿、口播不慢推 | 参考片量过，停住以后一个像素不动 |
